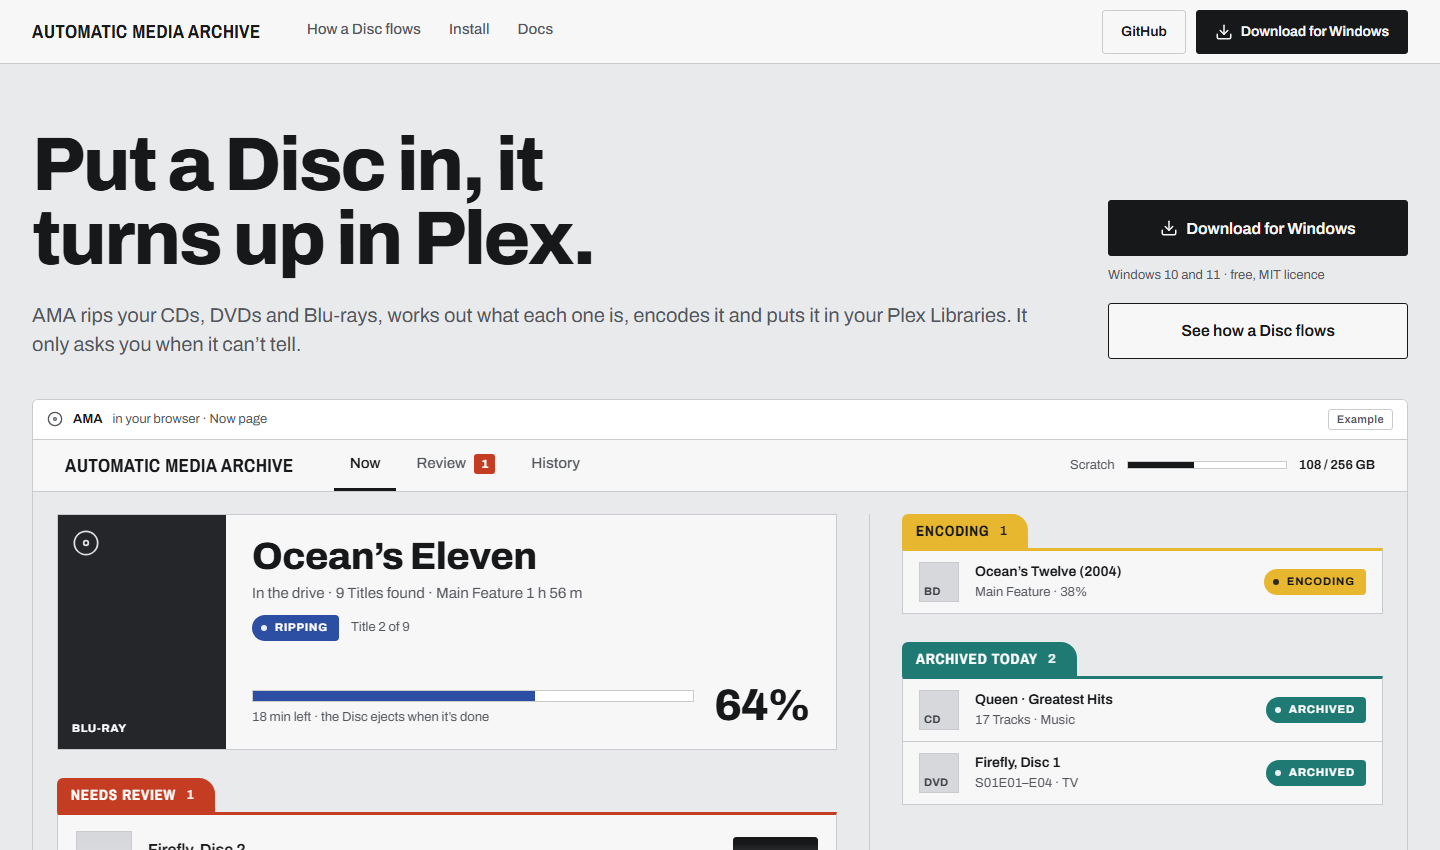
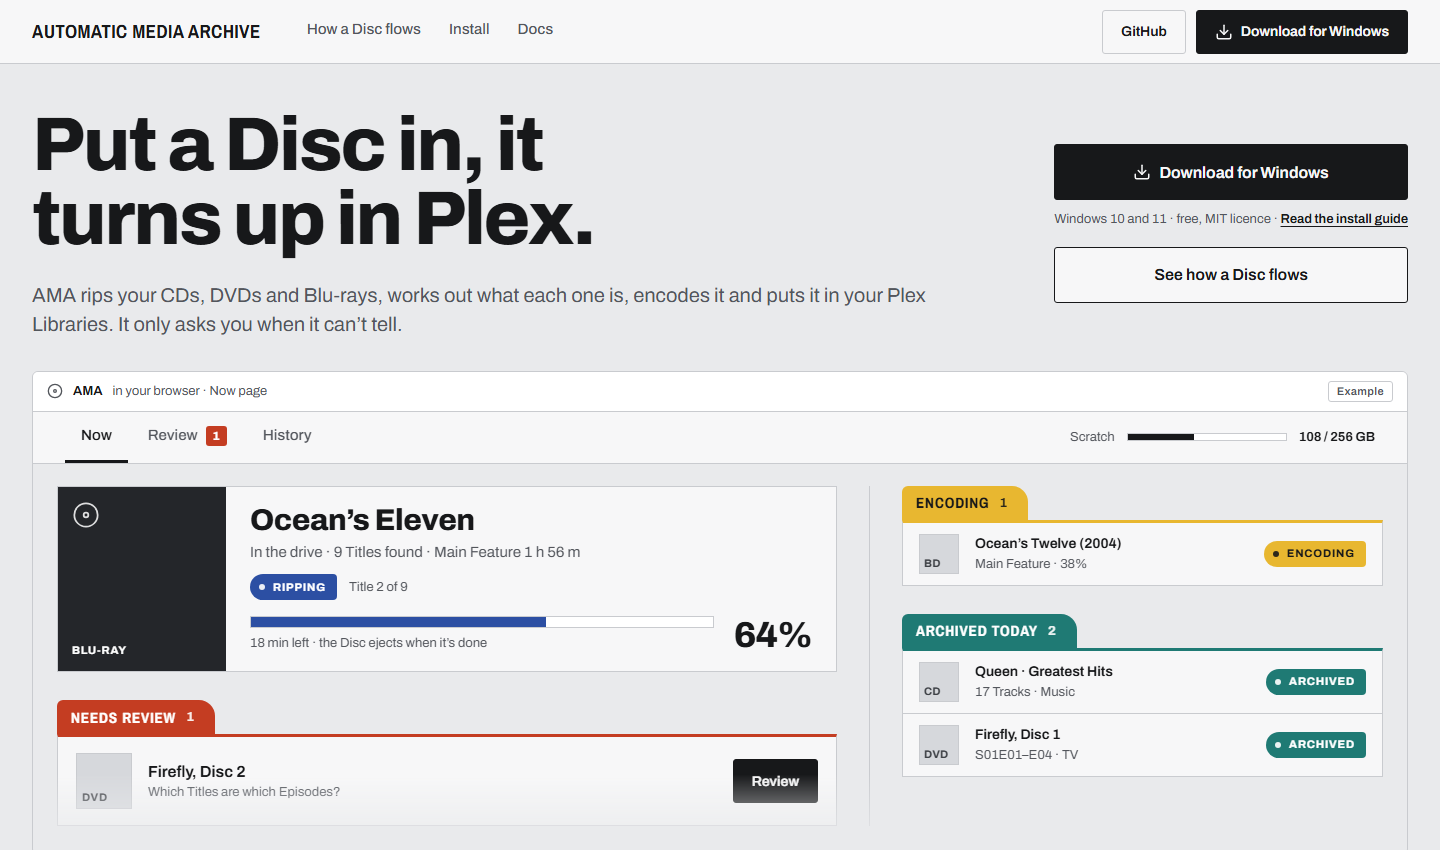
Apply the landing page critique fixes
The hero app window now shows the Disc waiting for Review above the fold.
The hero Download goes straight to the latest release, and the brand inside
the framed app is gone. Requirements move into Install, the gallery is
hidden on phones, the Review section is a full-width band, and the
How a Disc flows rules are plain ink.

diff --git a/docs/mockups/site/index.html b/docs/mockups/site/index.html
@@ -23,8 +23,8 @@
       <p class="lede">AMA rips your CDs, DVDs and Blu-rays, works out what each one is, encodes it and puts it in your Plex Libraries. It only asks you when it can’t tell.</p>
     </div>
     <div class="cta">
-      <a class="btn pri big" href="#install"><svg class="i" aria-hidden="true"><use href="../assets/icons.svg#download"/></svg>Download for Windows</a>
-      <small>Windows 10 and 11 · free, MIT licence</small>
+      <a class="btn pri big" href="https://github.com/mintopia/automatic-media-archive/releases/latest"><svg class="i" aria-hidden="true"><use href="../assets/icons.svg#download"/></svg>Download for Windows</a>
+      <small>Windows 10 and 11 · free, MIT licence · <a class="guide" href="install.html">Read the install guide</a></small>
       <a class="btn big" href="#flow">See how a Disc flows</a>
     </div>
   </section>
@@ -32,7 +32,7 @@
   <figure class="appwin hero-win" aria-labelledby="hero-cap">
     <div class="chrome"><svg class="i" aria-hidden="true"><use href="../assets/icons.svg#disc"/></svg><b>AMA</b> in your browser · Now page<span class="tag">Example</span></div>
     <div class="inner" inert>
-      <div class="top"><span class="brand">Automatic Media Archive</span><nav class="nav"><a aria-current="page">Now</a><a>Review<span class="count">1</span></a><a>History</a></nav><span class="scratch"><span class="lbl">Scratch</span><span class="meter"><i style="width:42%"></i></span><b>108 / 256 GB</b></span></div>
+      <div class="top"><nav class="nav"><a aria-current="page">Now</a><a>Review<span class="count">1</span></a><a>History</a></nav><span class="scratch"><span class="lbl">Scratch</span><span class="meter"><i style="width:42%"></i></span><b>108 / 256 GB</b></span></div>
       <div class="amain"><div class="split">
         <div class="stack">
           <div class="drive">
@@ -66,15 +66,15 @@
     <h2 id="flow-h">How a Disc flows</h2>
     <p class="intro">The drive is the slow part, so AMA rips first and ejects at once. Everything else happens afterwards, from a scratch folder on the PC.</p>
     <ol class="stages">
-      <li style="--c:var(--rip)"><h3>Ripping</h3><p>AMA copies the Disc to scratch and ejects it, so the drive is free for the next one. CDs are checked against AccurateRip as they rip.</p><p class="you">You: put the next Disc in.</p></li>
-      <li style="--c:var(--rev)"><h3>Needs review</h3><p>Only when it can’t tell: two films with the same name, a CD AccurateRip can’t verify, or which Titles are which Episodes.</p><p class="you">You: answer one question.</p></li>
-      <li style="--c:var(--enc)"><h3>Encoding</h3><p>Films and TV are encoded to HEVC at the quality you set, on your graphics card if it can. CDs stay lossless FLAC.</p><p class="you">You: nothing.</p></li>
-      <li style="--c:var(--fil)"><h3>Archived</h3><p>AMA names it with your Library’s Naming Pattern and moves it into the folder your Plex Library reads.</p><p class="you">You: press play.</p></li>
+      <li><h3>Ripping</h3><p>AMA copies the Disc to scratch and ejects it, so the drive is free for the next one. CDs are checked against AccurateRip as they rip.</p><p class="you">You: put the next Disc in.</p></li>
+      <li><h3>Needs review</h3><p>Only when it can’t tell: two films with the same name, a CD AccurateRip can’t verify, or which Titles are which Episodes.</p><p class="you">You: answer one question.</p></li>
+      <li><h3>Encoding</h3><p>Films and TV are encoded to HEVC at the quality you set, on your graphics card if it can. CDs stay lossless FLAC.</p><p class="you">You: nothing.</p></li>
+      <li><h3>Archived</h3><p>AMA names it with your Library’s Naming Pattern and moves it into the folder your Plex Library reads.</p><p class="you">You: press play.</p></li>
     </ol>
     <a class="more-link" href="#">Read the full walkthrough<svg class="i" aria-hidden="true"><use href="../assets/icons.svg#chevron"/></svg></a>
   </section>
 
-  <section class="block" aria-labelledby="asks-h">
+  <section class="block band" aria-labelledby="asks-h">
     <div class="asks">
       <div>
         <h2 id="asks-h" class="h2">It asks one question at a time</h2>
@@ -82,7 +82,7 @@
         <ul class="alerts">
           <li><svg class="i" aria-hidden="true" style="color:var(--rev-ink)"><use href="../assets/icons.svg#alert"/></svg><div><b>When a Disc needs you</b><span>Which Ocean’s Eleven is this?</span></div></li>
           <li><svg class="i" aria-hidden="true" style="color:var(--fil-ink)"><use href="../assets/icons.svg#check"/></svg><div><b>When a Disc is done</b><span>Time for the next one.</span></div></li>
-          <li><svg class="i" aria-hidden="true" style="color:var(--fail)"><use href="../assets/icons.svg#alert"/></svg><div><b>When a Disc didn’t rip</b><span>It’s ejected, and the log says why.</span></div></li>
+          <li><svg class="i" aria-hidden="true" style="color:var(--fail)"><use href="../assets/icons.svg#eject"/></svg><div><b>When a Disc didn’t rip</b><span>It’s ejected, and the log says why.</span></div></li>
         </ul>
       </div>
       <div>
@@ -105,7 +105,7 @@
     </div>
   </section>
 
-  <section class="block" aria-labelledby="look-h">
+  <section class="block gallery-block" aria-labelledby="look-h">
     <h2 id="look-h">Works at the drive and at the desk</h2>
     <p class="intro">Feed Discs with your phone in your hand, and do the odd Review on the big screen later.</p>
     <div class="gallery">
@@ -126,7 +126,6 @@
         <tr><td>UHD</td><td><b>HEVC 10-bit with HDR10</b><small>HDR10 is kept. Dolby Vision and HDR10+ are not.</small></td><td>MakeMKV<small>you install it</small></td></tr>
       </tbody>
     </table>
-    <p class="reqs">You need <b>Windows 10 or 11</b> on the PC with <b>an optical drive</b>, and <b>Plex</b> somewhere that can see your Library folders. NVIDIA or Intel graphics make Encodes faster; any CPU works.</p>
   </section>
 
   <section class="block" id="install" aria-labelledby="install-h">
@@ -136,6 +135,7 @@
       <li><b>Run it, past the SmartScreen warning</b><p>The installer isn’t signed yet, so Windows warns you. Choose More info, then Run anyway.</p></li>
       <li><b>Finish Setup in your browser</b><p>AMA finds your drive, asks where your Libraries live and, if you have one, for a TMDB key. Then it’s ready for a Disc.</p></li>
     </ol>
+    <p class="reqs">You need <b>Windows 10 or 11</b> on the PC with <b>an optical drive</b>, and <b>Plex</b> somewhere that can see your Library folders. NVIDIA or Intel graphics make Encodes faster; any CPU works.</p>
     <div class="install-cta"><a class="btn pri big" href="https://github.com/mintopia/automatic-media-archive/releases/latest"><svg class="i" aria-hidden="true"><use href="../assets/icons.svg#download"/></svg>Download for Windows</a><a class="btn big quiet" href="install.html">Read the install guide</a><small>For Discs you own.</small></div>
   </section>
 </main>

diff --git a/docs/mockups/site/landing.css b/docs/mockups/site/landing.css
@@ -1,9 +1,10 @@
 /* Landing page. The website speaks in plain text on the ground; anything that shows the app sits inside an .appwin frame. */
-.lead{display:grid;grid-template-columns:minmax(0,1fr) auto;gap:48px;align-items:end;padding:64px 0 40px}
+.lead{display:grid;grid-template-columns:minmax(0,1fr) auto;gap:48px;align-items:center;padding:44px 0 32px}
 .lead h1{font:800 76px/.98 Archivo;letter-spacing:-.03em;text-wrap:balance}
 .lead .lede{color:var(--ink2);font-size:20px;margin-top:24px}
 .cta{display:flex;flex-direction:column;gap:10px;min-width:300px}
 .cta small{color:var(--ink2);font-size:13px}
+.cta .guide{color:var(--ink);font-weight:600;text-underline-offset:3px}
 .cta .btn+small{margin-bottom:8px}
 
 /* the app, shown: one window frame for every depiction */
@@ -18,7 +19,12 @@
 .appwin img{display:block;width:100%;height:auto}
 .wcap{margin-top:12px;color:var(--ink2);font-size:14px}
 .wcap b{color:var(--ink);font-weight:600}
-.hero-win .inner{max-height:560px;overflow:hidden;-webkit-mask-image:linear-gradient(#000 82%,transparent);mask-image:linear-gradient(#000 82%,transparent)}
+.hero-win .drive{min-height:0}
+.hero-win .drive .body{padding:18px 24px}
+.hero-win .drive .title{font-size:30px}
+.hero-win .prog{padding-top:10px}
+.hero-win .pct{font-size:36px}
+.hero-win .inner{max-height:600px;overflow:hidden;-webkit-mask-image:linear-gradient(#000 82%,transparent);mask-image:linear-gradient(#000 82%,transparent)}
 
 /* website sections */
 .block{padding-top:112px}
@@ -27,12 +33,17 @@
 .more-link{display:inline-flex;align-items:center;gap:6px;min-height:44px;margin-top:8px;font-weight:600;text-underline-offset:3px}
 
 .stages{list-style:none;display:grid;grid-template-columns:repeat(4,minmax(0,1fr));gap:32px;margin-top:40px}
-.stages li{border-top:3px solid var(--c);padding-top:18px}
+.stages li{border-top:1px solid var(--ink);padding-top:18px}
 .stages h3{font:700 20px/1.2 Archivo}
 .stages p{color:var(--ink2);margin-top:8px}
 .stages .you{color:var(--ink);font-weight:600;margin-top:14px}
 
-.asks{display:grid;grid-template-columns:minmax(0,1fr) minmax(0,600px);gap:64px;align-items:start}
+body.site{overflow-x:clip}
+main.wrap{overflow:visible}
+.band{margin:112px calc(50% - 50vw) 0;padding:88px max(32px,calc(50vw - 688px));background:var(--sheet);border-block:1px solid var(--rule)}
+.band .h2{font-size:52px;line-height:1.02}
+.band .appwin{background:var(--ground)}
+.asks{display:grid;grid-template-columns:minmax(0,5fr) minmax(0,7fr);gap:64px;align-items:center}
 .alerts{list-style:none;margin-top:32px;border-top:1px solid var(--rule);max-width:520px}
 .alerts li{display:grid;grid-template-columns:24px minmax(0,1fr);gap:14px;padding:16px 0;border-bottom:1px solid var(--rule)}
 .alerts .i{margin-top:3px}
@@ -60,7 +71,7 @@
 .handles td:first-child{font:800 20px/1.2 Archivo;width:120px}
 .handles b{font-weight:600}
 .handles small{display:block;color:var(--ink2);font-size:14px;margin-top:2px}
-.reqs{color:var(--ink2);margin-top:20px}
+.reqs{color:var(--ink2);margin-top:28px}
 .reqs b{color:var(--ink);font-weight:600}
 
 .install{list-style:none;counter-reset:s;display:grid;grid-template-columns:repeat(3,minmax(0,1fr));gap:32px;margin-top:40px}
@@ -86,12 +97,15 @@
   .cta{flex-direction:column;align-items:stretch}
   .cta .btn{width:100%}
   .cta .btn+small{margin:0 0 8px}
-  .hero-win .inner{max-height:440px}
+  .hero-win .inner{max-height:540px}
   .appwin .amain{padding:14px 12px}
   .block{padding-top:72px}
   .block>h2,.h2{font-size:30px}
   .intro{font-size:16px}
   .stages,.install{grid-template-columns:minmax(0,1fr);gap:28px}
+  .gallery-block{display:none}
+  .band{margin-top:72px;padding:56px 16px}
+  .band .h2{font-size:32px}
   .choice{grid-template-columns:22px 72px minmax(0,1fr)}
   .handles thead{display:none}
   .handles tr{display:block;padding:14px 0;border-bottom:1px solid var(--rule)}

diff --git a/website/src/styles/landing.css b/website/src/styles/landing.css
@@ -1,9 +1,10 @@
 /* Landing page. The website speaks in plain text on the ground; anything that shows the app sits inside an .appwin frame. */
-.lead{display:grid;grid-template-columns:minmax(0,1fr) auto;gap:48px;align-items:end;padding:64px 0 40px}
+.lead{display:grid;grid-template-columns:minmax(0,1fr) auto;gap:48px;align-items:center;padding:44px 0 32px}
 .lead h1{font:800 76px/.98 Archivo;letter-spacing:-.03em;text-wrap:balance}
 .lead .lede{color:var(--ink2);font-size:20px;margin-top:24px}
 .cta{display:flex;flex-direction:column;gap:10px;min-width:300px}
 .cta small{color:var(--ink2);font-size:13px}
+.cta .guide{color:var(--ink);font-weight:600;text-underline-offset:3px}
 .cta .btn+small{margin-bottom:8px}
 
 /* the app, shown: one window frame for every depiction */
@@ -18,7 +19,12 @@
 .appwin img{display:block;width:100%;height:auto}
 .wcap{margin-top:12px;color:var(--ink2);font-size:14px}
 .wcap b{color:var(--ink);font-weight:600}
-.hero-win .inner{max-height:560px;overflow:hidden;-webkit-mask-image:linear-gradient(#000 82%,transparent);mask-image:linear-gradient(#000 82%,transparent)}
+.hero-win .drive{min-height:0}
+.hero-win .drive .body{padding:18px 24px}
+.hero-win .drive .title{font-size:30px}
+.hero-win .prog{padding-top:10px}
+.hero-win .pct{font-size:36px}
+.hero-win .inner{max-height:600px;overflow:hidden;-webkit-mask-image:linear-gradient(#000 82%,transparent);mask-image:linear-gradient(#000 82%,transparent)}
 
 /* website sections */
 .block{padding-top:112px}
@@ -27,12 +33,17 @@
 .more-link{display:inline-flex;align-items:center;gap:6px;min-height:44px;margin-top:8px;font-weight:600;text-underline-offset:3px}
 
 .stages{list-style:none;display:grid;grid-template-columns:repeat(4,minmax(0,1fr));gap:32px;margin-top:40px}
-.stages li{border-top:3px solid var(--c);padding-top:18px}
+.stages li{border-top:1px solid var(--ink);padding-top:18px}
 .stages h3{font:700 20px/1.2 Archivo}
 .stages p{color:var(--ink2);margin-top:8px}
 .stages .you{color:var(--ink);font-weight:600;margin-top:14px}
 
-.asks{display:grid;grid-template-columns:minmax(0,1fr) minmax(0,600px);gap:64px;align-items:start}
+body.site{overflow-x:clip}
+main.wrap{overflow:visible}
+.band{margin:112px calc(50% - 50vw) 0;padding:88px max(32px,calc(50vw - 688px));background:var(--sheet);border-block:1px solid var(--rule)}
+.band .h2{font-size:52px;line-height:1.02}
+.band .appwin{background:var(--ground)}
+.asks{display:grid;grid-template-columns:minmax(0,5fr) minmax(0,7fr);gap:64px;align-items:center}
 .alerts{list-style:none;margin-top:32px;border-top:1px solid var(--rule);max-width:520px}
 .alerts li{display:grid;grid-template-columns:24px minmax(0,1fr);gap:14px;padding:16px 0;border-bottom:1px solid var(--rule)}
 .alerts .i{margin-top:3px}
@@ -60,7 +71,7 @@
 .handles td:first-child{font:800 20px/1.2 Archivo;width:120px}
 .handles b{font-weight:600}
 .handles small{display:block;color:var(--ink2);font-size:14px;margin-top:2px}
-.reqs{color:var(--ink2);margin-top:20px}
+.reqs{color:var(--ink2);margin-top:28px}
 .reqs b{color:var(--ink);font-weight:600}
 
 .install{list-style:none;counter-reset:s;display:grid;grid-template-columns:repeat(3,minmax(0,1fr));gap:32px;margin-top:40px}
@@ -86,12 +97,15 @@
   .cta{flex-direction:column;align-items:stretch}
   .cta .btn{width:100%}
   .cta .btn+small{margin:0 0 8px}
-  .hero-win .inner{max-height:440px}
+  .hero-win .inner{max-height:540px}
   .appwin .amain{padding:14px 12px}
   .block{padding-top:72px}
   .block>h2,.h2{font-size:30px}
   .intro{font-size:16px}
   .stages,.install{grid-template-columns:minmax(0,1fr);gap:28px}
+  .gallery-block{display:none}
+  .band{margin-top:72px;padding:56px 16px}
+  .band .h2{font-size:32px}
   .choice{grid-template-columns:22px 72px minmax(0,1fr)}
   .handles thead{display:none}
   .handles tr{display:block;padding:14px 0;border-bottom:1px solid var(--rule)}
